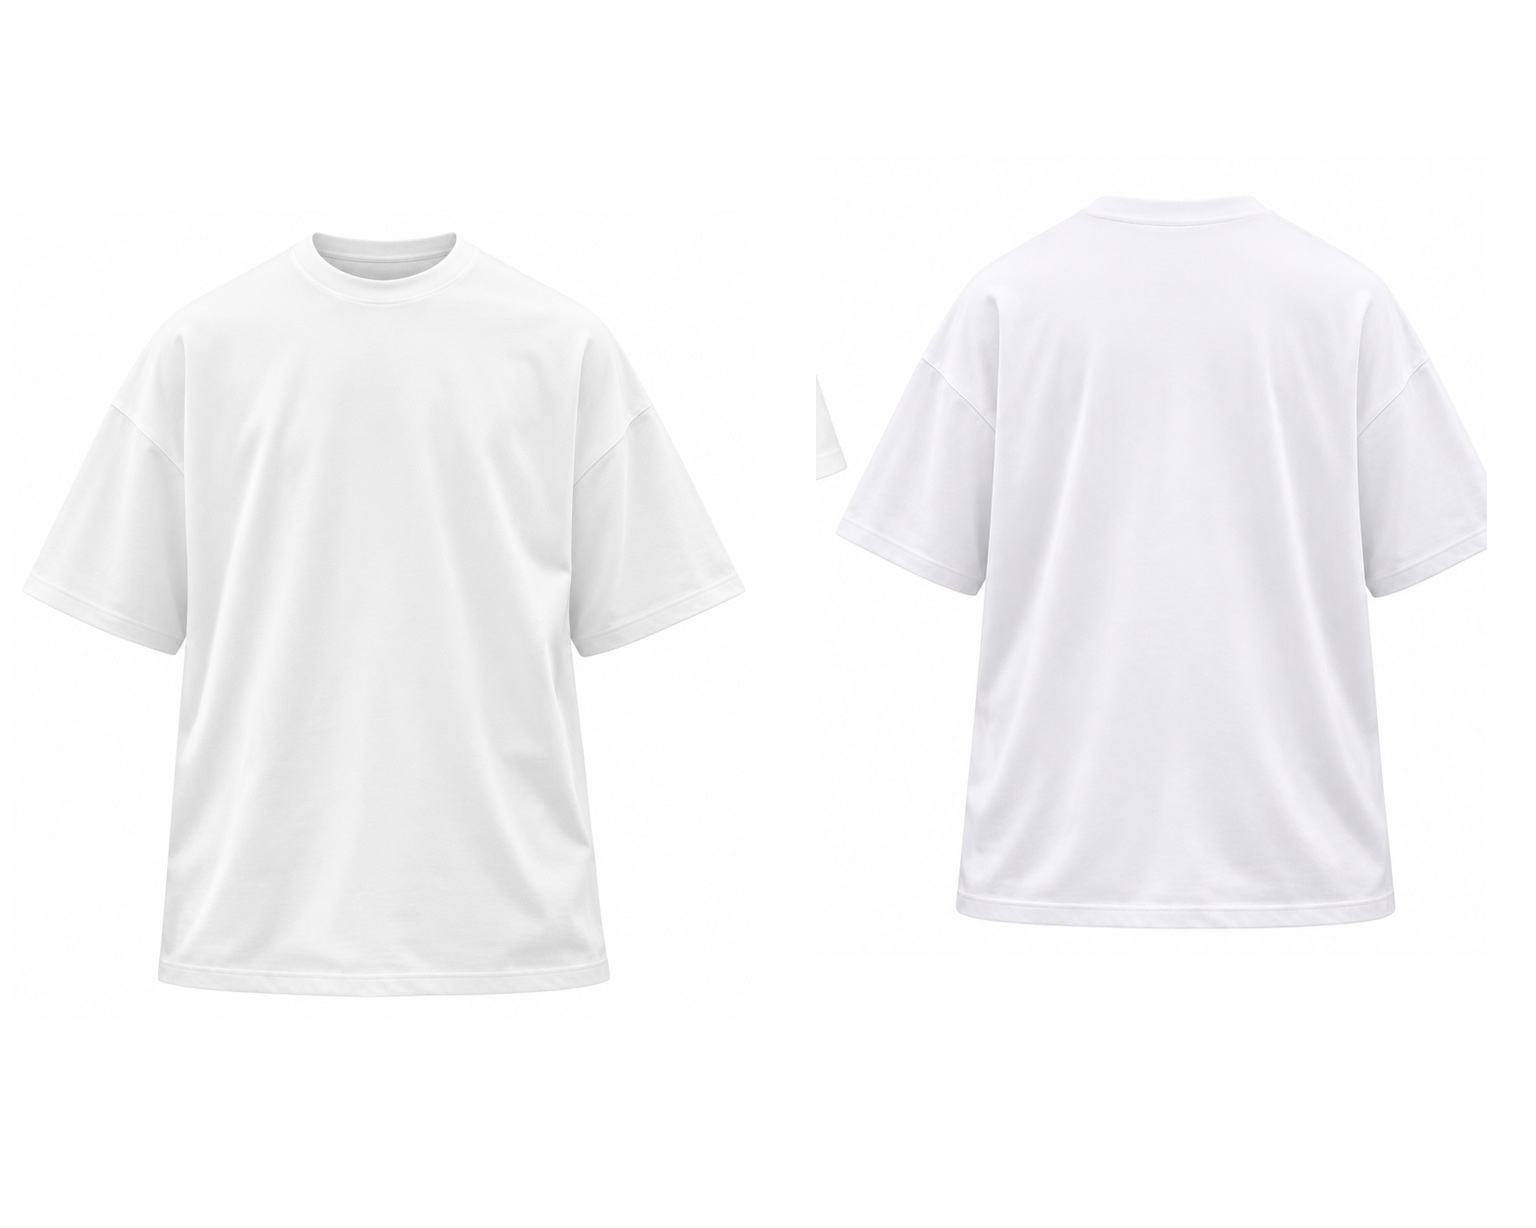
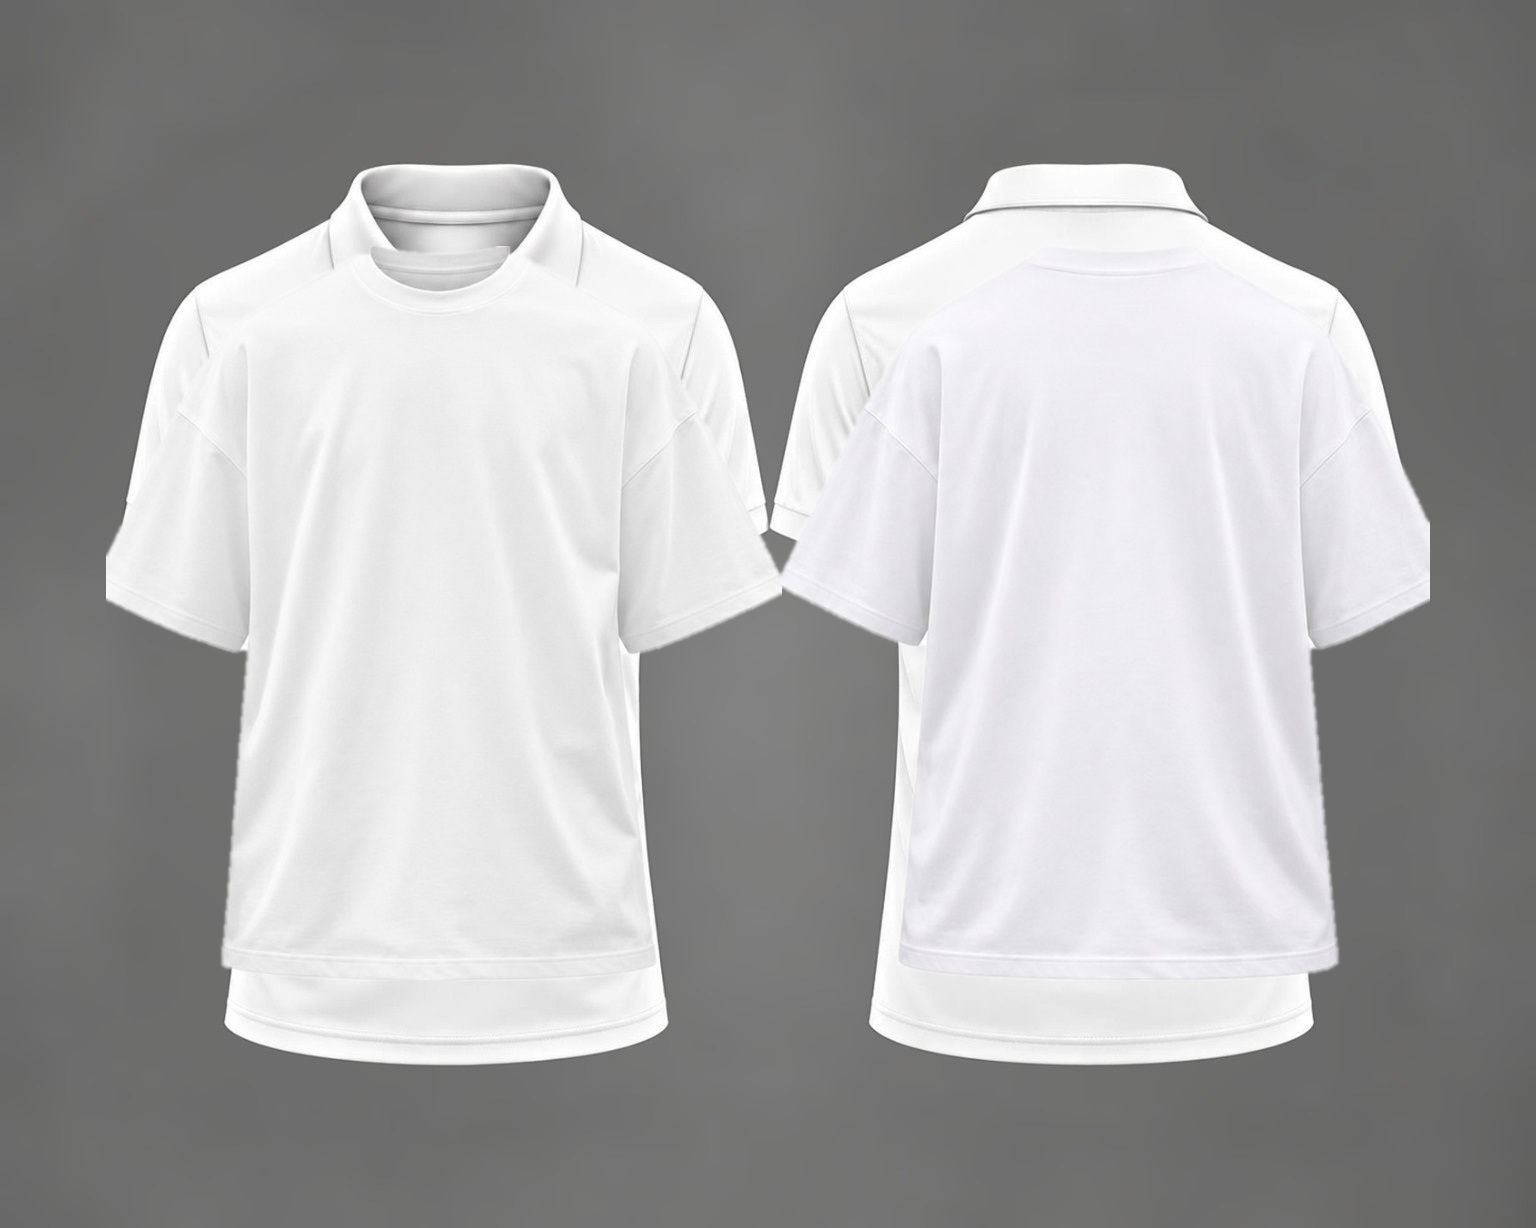
Add files via upload

diff --git a/navigation.js b/navigation.js
@@ -1,40 +1,4 @@
 (() => {
-  // Geräteerkennung + Hochformat-Sperre (nur iPad und Handy; Computer und Android-Tablets bleiben unverändert).
-  // iPad: "iPad" im User-Agent – neuere iPads melden sich in Safari als Mac, darum zusätzlich "Mac mit Touchscreen".
-  // Handy: iPhone/iPod oder Android mit "Mobile" (Android-Tablets haben kein "Mobile" im User-Agent).
-  // Eine Webseite kann die Drehung nicht wirklich verhindern (Safari erlaubt das nicht). Darum: Im Querformat legt sich
-  // eine Vollbild-Meldung "Bitte hochkant drehen" über die Seite; zurückgedreht ist alles unverändert wieder da.
-  // Querformat wird an der Gerätelage erkannt (screen.orientation / window.orientation), NICHT am Fensterverhältnis –
-  // sonst erschiene die Meldung auf Android, sobald die Tastatur das Fenster niedriger macht.
-  const ua = navigator.userAgent, root = document.documentElement;
-  const iPad = /iPad/.test(ua) || (/Macintosh/.test(ua) && navigator.maxTouchPoints > 1);
-  const phone = !iPad && (/iPhone|iPod/.test(ua) || (/Android/.test(ua) && /Mobile/.test(ua)));
-  if (iPad) root.classList.add('is-ipad');
-  if (phone) root.classList.add('is-phone');
-  if (!iPad && !phone) return;
-  const landscape = () => {
-    if (screen.orientation && typeof screen.orientation.type === 'string') return screen.orientation.type.startsWith('landscape');
-    if (typeof window.orientation === 'number') return Math.abs(window.orientation) === 90;
-    return window.innerWidth > window.innerHeight && !document.activeElement?.matches?.('input,textarea');
-  };
-  const style = document.createElement('style');
-  style.textContent = '.sb-rotate{display:none;position:fixed;inset:0;z-index:2147483000;flex-direction:column;align-items:center;justify-content:center;gap:14px;padding:24px;background:#090c13;color:#f4f1ea;text-align:center;font:800 20px/1.35 system-ui,-apple-system,sans-serif}'
-    + '.sb-rotate span{font-size:64px;line-height:1;animation:sbRotate 2.4s ease-in-out infinite}.sb-rotate small{font:600 15px/1.4 system-ui,-apple-system,sans-serif;color:#c5ccd6}'
-    + '@keyframes sbRotate{0%,30%{transform:rotate(-90deg)}60%,100%{transform:rotate(0)}}@media(prefers-reduced-motion:reduce){.sb-rotate span{animation:none}}'
-    + 'html.is-landscape .sb-rotate{display:flex}html.is-landscape body{overflow:hidden}';
-  document.head.append(style);
-  const overlay = document.createElement('div'); overlay.className = 'sb-rotate'; overlay.setAttribute('role', 'alert');
-  overlay.innerHTML = '<span aria-hidden="true">📱</span><strong>Bitte drehe dein Gerät hochkant.</strong><small>ShirtBOX ist für das Hochformat gemacht.</small>';
-  const mount = () => { if (!overlay.isConnected) document.body.append(overlay); };
-  if (document.body) mount(); else document.addEventListener('DOMContentLoaded', mount);
-  const update = () => root.classList.toggle('is-landscape', landscape());
-  update();
-  screen.orientation?.addEventListener?.('change', update);
-  window.addEventListener('orientationchange', () => setTimeout(update, 50));
-  window.addEventListener('resize', update);
-})();
-
-(() => {
   // Fehlende Angabe deutlich zeigen (auf allen Seiten gleich): Fehlt etwas, damit es weitergeht (z. B. kein T-Shirt
   // angeklickt, Häkchen nicht gesetzt, Feld leer), scrollt die Seite genau dorthin und die Stelle leuchtet orange und
   // pulsiert mit dem Hinweis „Bitte hier …“. Die Markierung verschwindet, sobald man dort etwas anklickt oder eingibt.
@@ -96,11 +60,7 @@
     document.addEventListener('click', off, true);
     target.scrollIntoView({behavior: 'smooth', block: 'center'});
   }
-  // Von aussen nutzbar: direkt zu einem Knopf springen und „Jetzt hier weiter“ zeigen.
-  window.sbNext = target => goBack(target);
-  // Optional 4. Angabe „then“: ein Element = fester Rückweg (statt des zuletzt angeklickten Knopfs),
-  // eine Funktion = wird nach dem Ergänzen aufgerufen und entscheidet selbst, wohin es weitergeht.
-  window.sbMissing = (el, focus, text, then) => {
+  window.sbMissing = (el, focus, text) => {
     if (!el) return;
     clear(); clearNext();
     // Ein einzelnes Feld oder Häkchen hat keinen Platz für ein Schild: dann das umgebende Feld markieren.
@@ -111,19 +71,16 @@
     if (getComputedStyle(box).position === 'static') box.style.position = 'relative';
     box.append(tag);
     // Rückweg: der Knopf, der eben angeklickt wurde (höchstens 6 Sekunden her, nicht im fehlenden Bereich selbst).
-    const after = typeof then === 'function' ? then : null;
-    const target = then instanceof Element ? then
-      : lastAction && Date.now() - lastAction.at < 6000 && !box.contains(lastAction.el) && lastAction.el !== box ? lastAction.el : null;
+    const target = lastAction && Date.now() - lastAction.at < 6000 && !box.contains(lastAction.el) && lastAction.el !== box ? lastAction.el : null;
     const touched = () => unmark();
     // Fertig angeklickt? Kurz warten, damit man die Auswahl sieht – dann zurück. Nicht bei Textfeldern,
     // Mund/Tastatur und solange im Bereich noch etwas fehlt (z. B. Grösse gewählt, Stückzahl noch leer).
     const completed = e => {
-      if ((!target && !after) || isText(e.target) || e.target.closest?.('[data-act],input[type=file]')) return;
+      if (!target || isText(e.target) || e.target.closest?.('[data-act],input[type=file]')) return;
       setTimeout(() => {
         if (!marked || marked.el !== box) return;
         const open = [...box.querySelectorAll('input,select,textarea')].some(f => !f.disabled && f.type !== 'hidden' && !f.hidden && f.validity && !f.validity.valid);
-        if (open) return;
-        if (after) { clear(); clearNext(); after(); } else goBack(target);
+        if (!open) goBack(target);
       }, 450);
     };
     const off = [['pointerdown', touched], ['input', touched], ['keydown', touched], ['change', touched], ['click', completed], ['change', completed]];

diff --git a/newsletter.js b/newsletter.js
@@ -17,15 +17,15 @@
     const confirm = params.has('bestaetigen');
     $('nl-anmelden').hidden = true; $('nl-link').hidden = false;
     $('nl-link-title').textContent = confirm ? 'Anmeldung bestätigen' : 'Newsletter abbestellen';
-    $('nl-link-text').textContent = confirm ? 'Bitte bestätige mit einem Klick, dass du den ShirtBOX-Newsletter erhalten möchtest.' : 'Schade, dass du gehst. Mit einem Klick erhältst du keine Newsletter mehr von uns.';
+    $('nl-link-text').textContent = confirm ? 'Bitte bestätigen Sie mit einem Klick, dass Sie den ShirtBOX-Newsletter erhalten möchten.' : 'Schade, dass Sie gehen. Mit einem Klick erhalten Sie keine Newsletter mehr von uns.';
     const button = $('nl-link-button');
     button.textContent = confirm ? 'Ja, Newsletter erhalten' : 'Jetzt abmelden';
     if (!confirm) button.classList.add('ghost');
     const texts = {
-      bestaetigt: ['Vielen Dank! Deine Anmeldung ist bestätigt. Du erhältst ab sofort unseren Newsletter.', true],
-      bereits: [confirm ? 'Deine Anmeldung war bereits bestätigt.' : 'Du warst bereits abgemeldet.', true],
-      abgemeldet: ['Du wurdest abgemeldet und erhältst keine Newsletter mehr. Du kannst dich jederzeit wieder anmelden.', true],
-      abgelaufen: ['Dieser Bestätigungslink ist abgelaufen. Bitte melde dich erneut an.', false],
+      bestaetigt: ['Vielen Dank! Ihre Anmeldung ist bestätigt. Sie erhalten ab sofort unseren Newsletter.', true],
+      bereits: [confirm ? 'Ihre Anmeldung war bereits bestätigt.' : 'Sie waren bereits abgemeldet.', true],
+      abgemeldet: ['Sie wurden abgemeldet und erhalten keine Newsletter mehr. Sie können sich jederzeit wieder anmelden.', true],
+      abgelaufen: ['Dieser Bestätigungslink ist abgelaufen. Bitte melden Sie sich erneut an.', false],
       unbekannt: ['Dieser Link ist ungültig oder wurde bereits verwendet.', false]
     };
     button.addEventListener('click', async () => {
@@ -45,14 +45,14 @@
     const msg = $('nl-msg'), button = $('nl-submit'), email = $('nl-email').value.trim(), vorname = $('nl-vorname').value.trim();
     // Fehlende Angabe: hinscrollen und orange pulsierend markieren (window.sbMissing aus navigation.js).
     const missing = (field, focus) => { if (window.sbMissing) window.sbMissing(field, focus); else focus?.focus(); };
-    if (!vorname) { show(msg, 'Bitte gib deinen Vornamen ein.', false); missing($('nl-vorname'), $('nl-vorname')); return; }
-    if (!/^[^\s@]+@[^\s@]+\.[^\s@]{2,}$/.test(email)) { show(msg, 'Bitte gib eine gültige E-Mail-Adresse ein.', false); missing($('nl-email'), $('nl-email')); return; }
+    if (!vorname) { show(msg, 'Bitte geben Sie Ihren Vornamen ein.', false); missing($('nl-vorname'), $('nl-vorname')); return; }
+    if (!/^[^\s@]+@[^\s@]+\.[^\s@]{2,}$/.test(email)) { show(msg, 'Bitte geben Sie eine gültige E-Mail-Adresse ein.', false); missing($('nl-email'), $('nl-email')); return; }
     const turnstile = window.turnstile?.getResponse() || '';
-    if (!turnstile) { show(msg, 'Bitte warte kurz, bis die Sicherheitsprüfung abgeschlossen ist.', false); missing(document.querySelector('#nl-form .cf-turnstile') || msg); return; }
+    if (!turnstile) { show(msg, 'Bitte warten Sie kurz, bis die Sicherheitsprüfung abgeschlossen ist.', false); missing(document.querySelector('#nl-form .cf-turnstile') || msg); return; }
     button.disabled = true;
     try {
       const {status} = await post('anmelden', {email, vorname, nachname: $('nl-nachname').value.trim(), website: $('nl-website').value, turnstile});
-      show(msg, status === 'bereits' ? 'Du bist bereits angemeldet – vielen Dank!' : 'Fast geschafft! Wir haben dir eine E-Mail geschickt. Bitte klicke auf den Link darin, um die Anmeldung zu bestätigen.', true);
+      show(msg, status === 'bereits' ? 'Sie sind bereits angemeldet – vielen Dank!' : 'Fast geschafft! Wir haben Ihnen eine E-Mail geschickt. Bitte klicken Sie auf den Link darin, um die Anmeldung zu bestätigen.', true);
       $('nl-form').querySelectorAll('input').forEach(i => i.disabled = true);
       button.hidden = true;
     } catch (err) { show(msg, err.message, false); button.disabled = false; window.turnstile?.reset(); }

diff --git a/newsletter.html b/newsletter.html
@@ -3,7 +3,7 @@
 <head>
 <meta charset="utf-8"/>
 <meta content="width=device-width, initial-scale=1" name="viewport"/>
-<meta content="ShirtBOX-Newsletter: Neuigkeiten, Aktionen und Angebote rund um dein individuelles 360°-Shirt. Kostenlos und jederzeit abbestellbar." name="description"/>
+<meta content="ShirtBOX-Newsletter: Neuigkeiten, Aktionen und Angebote rund um Ihr individuelles 360°-Shirt. Kostenlos und jederzeit abbestellbar." name="description"/>
 <title>Newsletter · ShirtBOX.ch</title>
 <link href="shirtbox-icon.svg" rel="icon" type="image/svg+xml"/><link href="shirtbox.css?v=20261024-360" rel="stylesheet"/><link href="marke.css?v=20261024-fuss" rel="stylesheet"/>
 <style>
@@ -44,7 +44,7 @@
 <div id="nl-anmelden">
 <p class="hero-kicker">📬 Newsletter</p>
 <h1 id="nl-title">Neuigkeiten von ShirtBOX</h1>
-<p>Erfahre als Erstes von neuen Shirt-Ideen, Aktionen und Angeboten. Kostenlos und jederzeit abbestellbar.</p>
+<p>Erfahren Sie als Erste von neuen Shirt-Ideen, Aktionen und Angeboten. Kostenlos und jederzeit abbestellbar.</p>
 <ul class="nl-list"><li>Höchstens ein- bis zweimal im Monat</li><li>Exklusive Aktionen für Vereine und Teams</li><li>Abmeldung mit einem Klick</li></ul>
 <form class="nl-form" id="nl-form" novalidate>
 <div class="two"><label>Vorname *<input id="nl-vorname" autocomplete="given-name" maxlength="80" required/></label><label>Nachname<input id="nl-nachname" autocomplete="family-name" maxlength="80"/></label></div>
@@ -52,7 +52,7 @@
 <div class="trap" aria-hidden="true"><label>Website<input id="nl-website" tabindex="-1" autocomplete="off"/></label></div>
 <div class="cf-turnstile" data-sitekey="0x4AAAAAAFkDAIIYBJZ9VFKw" data-theme="dark"></div>
 <button class="nl-btn" id="nl-submit" type="submit">Newsletter abonnieren</button>
-<p class="nl-note">Du erhältst zuerst eine E-Mail mit einem Bestätigungslink. Erst nach deiner Bestätigung senden wir dir Newsletter. Deine Angaben verwenden wir ausschliesslich für den Newsletter und geben sie nicht weiter. Versand über unseren E-Mail-Dienstleister Resend.</p>
+<p class="nl-note">Sie erhalten zuerst eine E-Mail mit einem Bestätigungslink. Erst nach Ihrer Bestätigung senden wir Ihnen Newsletter. Ihre Angaben verwenden wir ausschliesslich für den Newsletter und geben sie nicht weiter. Versand über unseren E-Mail-Dienstleister Resend.</p>
 <p class="nl-msg" id="nl-msg" role="status" aria-live="polite" hidden></p>
 </form>
 </div>
@@ -76,10 +76,10 @@
 <p class="footer-legal"><a class="footer-admin" href="https://admin.shirtbox.ch/" rel="nofollow">© 2026 ShirtBOX.ch</a> · Alle Preise inkl. MwSt. und Versand · Bezahlung per TWINT</p>
 </footer>
 </main>
-<script defer src="newsletter.js?v=20261103-du"></script>
-<script defer src="navigation.js?v=20261103-du"></script>
-<script defer src="language.js?v=20261103-sprache"></script>
+<script defer src="newsletter.js?v=20261031-hinweis"></script>
+<script defer src="navigation.js?v=20261101-hinher"></script>
+<script defer src="language.js?v=20261031-5mb"></script>
 <script src="https://challenges.cloudflare.com/turnstile/v0/api.js" async defer></script>
-<script defer src="shirti.js?v=20261103-du"></script>
+<script defer src="shirti.js?v=20261031-5mb"></script>
 </body>
 </html>

diff --git a/designhilfe.html b/designhilfe.html
@@ -7,7 +7,7 @@
 <title>Designen Sie Ihr T-Shirt · ShirtBOX.ch</title>
 <script>if ("scrollRestoration" in history) history.scrollRestoration = "manual";</script>
 <link href="shirtbox-icon.svg" rel="icon" type="image/svg+xml"/><link href="shirtbox.css?v=20261025-raster" rel="stylesheet"/><link href="marke.css?v=20261025-raster" rel="stylesheet"/>
-<link href="gestalter.css?v=20261114-hover-mobile-20261114-repair2" rel="stylesheet"/>
+<link href="gestalter.css?v=20261114-mobile-keyboard-3" rel="stylesheet"/>
 </head>
 <body class="design-page">
 <main class="shell">
@@ -36,8 +36,8 @@
 <div class="studio-models" id="studio-models" role="group" aria-labelledby="studio-model-title">
 <button type="button" data-model="polo" aria-pressed="false"><img src="anleitung/polo-auswahl.jpg?v=20261024" width="800" height="800" alt=""/><span>Polo-Shirt<small>Kragen mit Knopfleiste</small></span></button>
 <button type="button" data-model="zip" aria-pressed="false"><img src="anleitung/zip-auswahl.jpg?v=20261024" width="800" height="800" alt=""/><span>Zip-Shirt<small>Stehkragen mit Reissverschluss</small></span></button>
-<button type="button" data-model="tshirt" aria-pressed="false"><img src="anleitung/tshirt-auswahl.jpg?v=20261114" width="800" height="800" alt=""/><span>T-Shirt<small>Normaler Schnitt · Rundhals</small></span></button>
-<button type="button" data-model="oversize" aria-pressed="false"><img src="anleitung/oversize-auswahl.jpg?v=20261114" width="800" height="800" alt=""/><span>Oversize T-Shirt<small>Weiter Schnitt · Rundhals</small></span></button>
+<button type="button" data-model="tshirt" aria-pressed="false"><img src="anleitung/tshirt-auswahl.jpg?v=20261114c" width="800" height="800" alt=""/><span>T-Shirt<small>Normaler Schnitt · Rundhals</small></span></button>
+<button type="button" data-model="oversize" aria-pressed="false"><img src="anleitung/oversize-auswahl.jpg?v=20261114c" width="800" height="800" alt=""/><span>Oversize T-Shirt<small>Weiter Schnitt · Rundhals</small></span></button>
 </div></div>
 <div class="studio-step" id="studio-idea">
 <p class="studio-step-title"><b>2</b><span>Ihre Idee<small>Beschreiben Sie Ihr Wunsch-Shirt – ein eigenes Foto ist optional.</small></span></p>
@@ -104,7 +104,7 @@
 </main>
 <script defer src="design-uebernahme.js?v=20261031-png"></script>
 <script defer src="bestell-logik.js?v=20261023-unbegrenzt"></script>
-<script defer src="gestalter.js?v=20261114-hover-mobile"></script>
+<script defer src="gestalter.js?v=20261114-mobile-keyboard-3"></script>
 <script defer src="navigation.js?v=20261101-hinher"></script>
 <script defer src="language.js?v=20261114-vier-modelle"></script>
 <script defer src="shirti.js?v=20261031-5mb"></script>

diff --git a/gestalter.js b/gestalter.js
@@ -15,8 +15,8 @@
   const MODELS = {
     polo: {label: 'Polo-Shirt', template: 'anleitung/polo-api-vorlage.jpg', cut: 'Sportpolo mit Polo-Kragen und Knopfleiste'},
     zip: {label: 'Zip-Shirt', template: 'anleitung/zip-api-vorlage.jpg', cut: 'Sport-Jersey mit niedrigem Stehkragen und kurzem Reissverschluss vorne (kein Polo-Kragen, keine Knöpfe)'},
-    tshirt: {label: 'T-Shirt', template: 'anleitung/tshirt-api-vorlage.jpg', cut: 'Klassisches T-Shirt mit Rundhalsausschnitt und regulärer Passform'},
-    oversize: {label: 'Oversize T-Shirt', template: 'anleitung/oversize-api-vorlage.jpg', cut: 'Weites Oversize-T-Shirt mit überschnittenen Schultern, weitem geradem Schnitt und Rundhalsausschnitt'}
+    tshirt: {label: 'T-Shirt', template: 'anleitung/tshirt-api-vorlage.jpg?v=20261114c', cut: 'Klassisches T-Shirt mit Rundhalsausschnitt und regulärer Passform'},
+    oversize: {label: 'Oversize T-Shirt', template: 'anleitung/oversize-api-vorlage.jpg?v=20261114c', cut: 'Weites Oversize-T-Shirt mit überschnittenen Schultern, weitem geradem Schnitt und Rundhalsausschnitt'}
   };
   let model = '';
   const TEMPLATE = () => MODELS[model]?.template || MODELS.polo.template;
@@ -246,6 +246,9 @@
       field.readOnly = on; controls();
     };
     button.addEventListener('click', () => {
+      // Auf Mobilgeraeten oeffnen beide Symbole nur die Systemtastatur.
+      // Diktieren wird ausschliesslich ueber das Mikrofon der Tastatur gestartet.
+      if (MOBILE) { stopDictation(); field.focus(); return; }
       if (dict?.button === button) { finishDictation(); return; }
       stopDictation(); stopTour(); if (field === keyword) robotStop();
       if (document.activeElement === field) field.blur();
@@ -259,7 +262,7 @@
   }
   const speakButton = field => field.parentElement.querySelector('.studio-icon-btn[data-act=speak]');
   if (!Recognition || !window.isSecureContext) {
-    speakButton(keyword).hidden = speakButton(editInput).hidden = true;
+    if (!MOBILE) speakButton(keyword).hidden = speakButton(editInput).hidden = true;
     hear('Tipp: Sie können Ihre Idee auch mit dem Mikrofon Ihrer Handy-Tastatur einsprechen.');
   } else {
     dictation(speakButton(keyword), keyword, hear, () => { fail(''); steps(); }, 'Ich höre zu … Wenn Sie fertig sind, einfach auf „T-Shirt designen“ tippen.');

diff --git a/gestalter.css b/gestalter.css
@@ -445,3 +445,10 @@ html[lang=en] .studio-designs:empty::before{content:"Your T-shirt designs will a
 }
 @keyframes shirtboxHintPulse{0%,100%{opacity:.7}50%{opacity:1}}
 @media(prefers-reduced-motion:reduce){.studio-keyword-box .studio-keyword-icons::after{animation:none!important}}
+
+/* 14.11: Beide Mobil-Symbole enger beisammen, beide oeffnen die Tastatur. */
+@media(max-width:700px){
+ .studio-keyword-box:not(.is-listening) .studio-keyword-icons{gap:0!important}
+ .studio-keyword-box:not(.is-listening) .studio-keyword-icons .studio-icon-btn{min-width:52px;padding-left:4px;padding-right:4px}
+ .studio-keyword-box:not(.is-listening) .studio-keyword-icons svg{width:38px;height:38px}
+}
